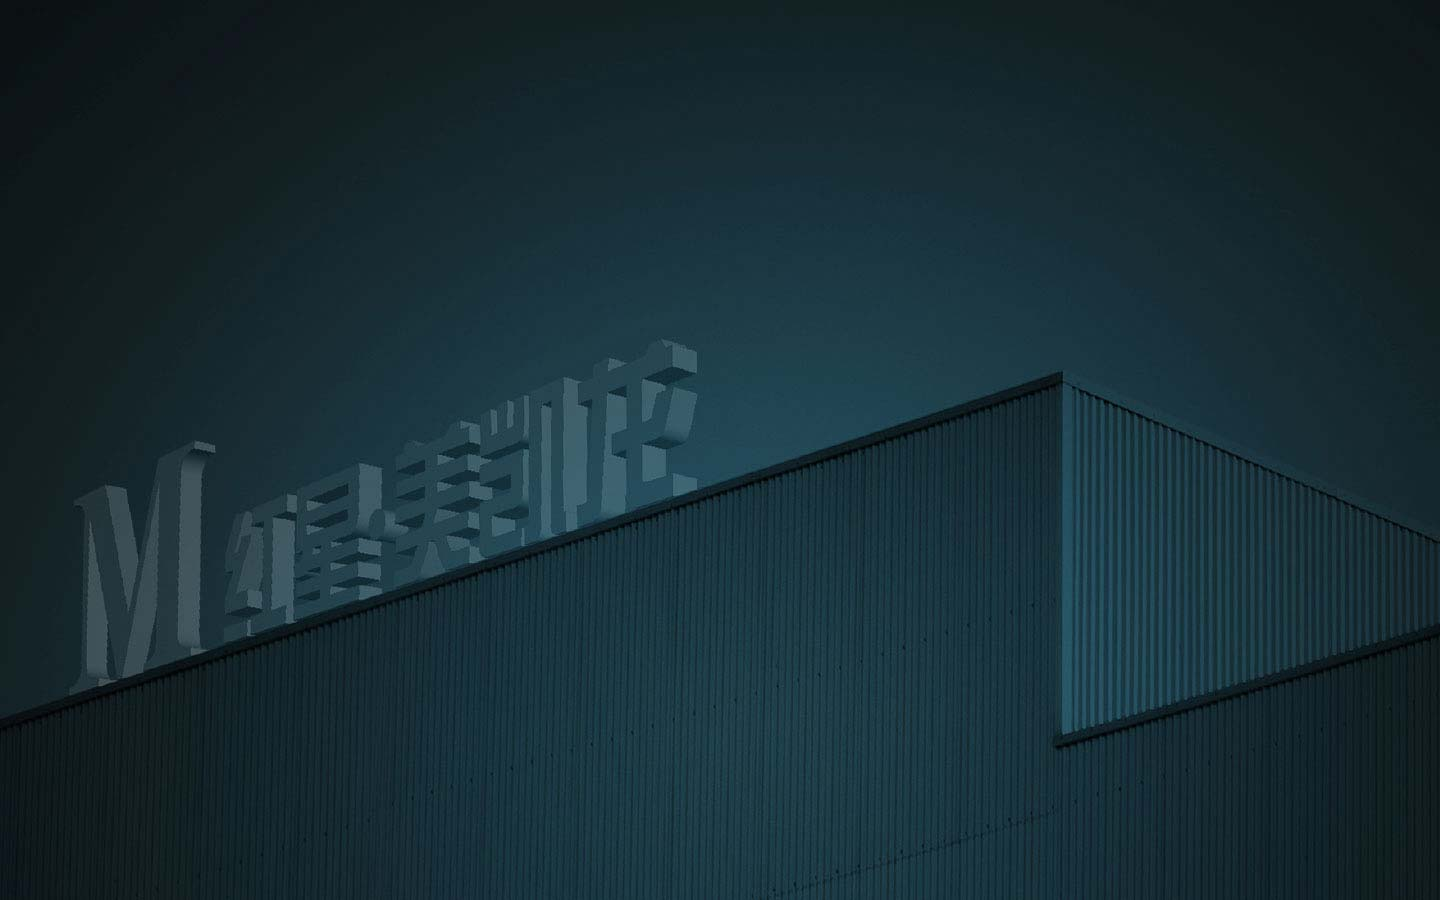
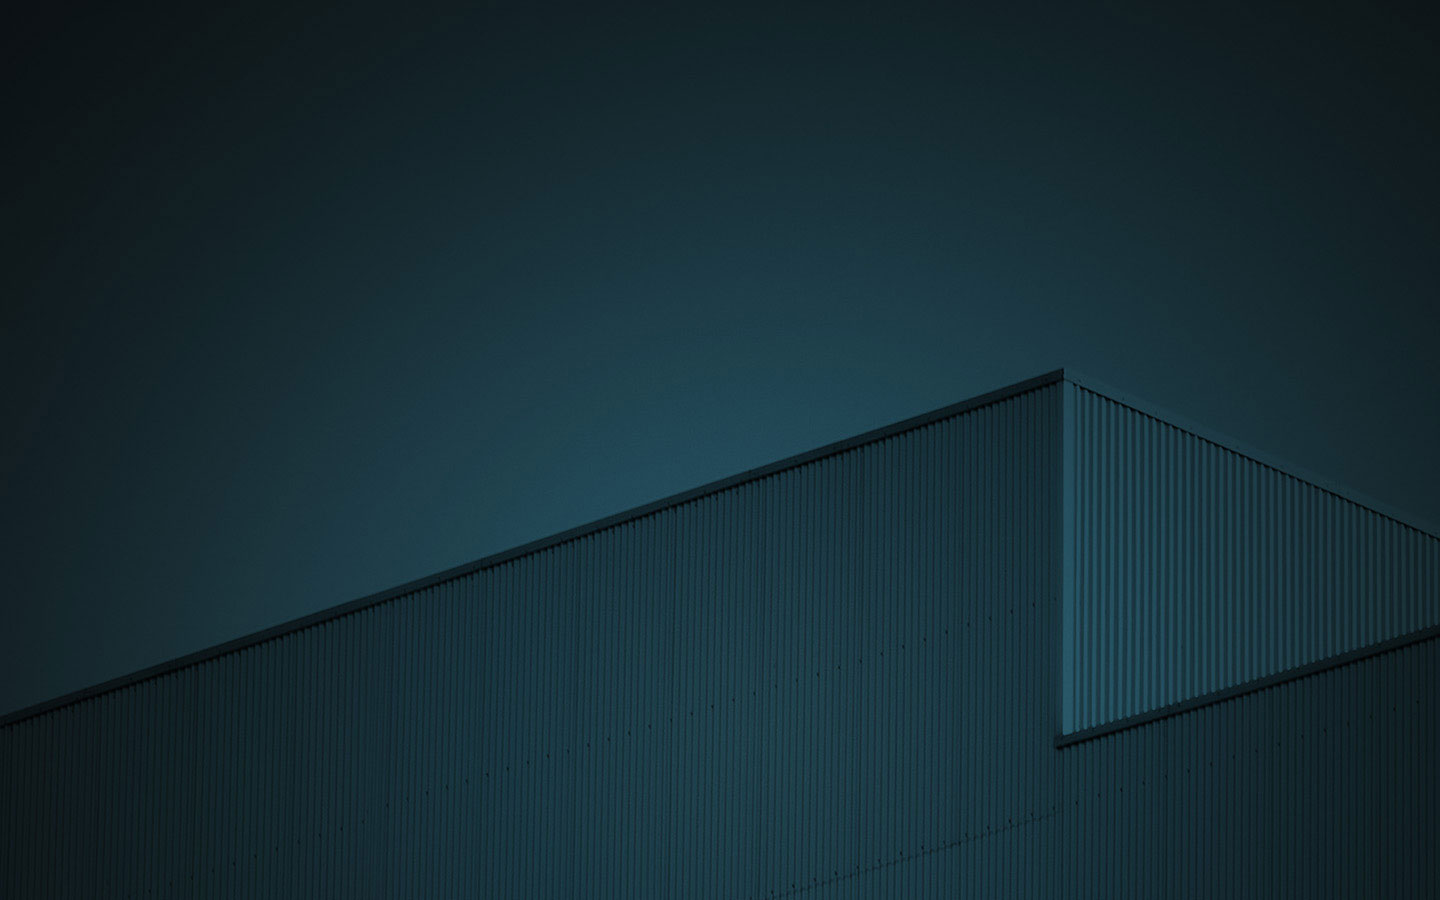
new css

diff --git a/debug/login-new.html b/debug/login-new.html
@@ -106,7 +106,8 @@
 				<div class="swiper-wrapper">
 					<!-- 屏一 -->
 					<div id="screen-1" class="swiper-slide" style="display: block;">
-						<img src="images/login/bg-login-1.jpg" />
+						<img class="swiper-lazy" data-src="images/login/bg-login-1.jpg" />
+						<!-- <img src="images/login/bg-login-1.jpg" /> -->
 						<div class="login-left-icons">
 							<div class="icons-lines"></div>
 
@@ -129,12 +130,14 @@
 							<div data-delay="0.9s" class="icons icons-bottom icons-toggle" style="bottom: 135px; margin-left: 280px; width: 50px; height: 50px;"><img src="images/login/icons-m.png" /></div>
 						</div>
 
-						<div class="login-text-block" style="color: #efd6d0">运筹帷幄 <strong>决胜</strong>云端</div>
+						<!-- <div class="login-text-block" style="color: #efd6d0">运筹帷幄 <strong>决胜</strong>云端</div> -->
+						<div class="login-text-block"><img src="images/login/text-1.png" /></div>
 					</div>
 
 					<!-- 屏二 -->
 					<div id="screen-2" class="swiper-slide" style="display: none;">
-						<img src="images/login/bg-login-2.jpg" />
+						<img class="swiper-lazy" data-src="images/login/bg-login-2.jpg" />
+						<!-- <img src="images/login/bg-login-2.jpg" /> -->
 						<div class="login-left-icons">
 
 							<div class="icons-lines"><img src="images/login/img-lines-2.png" /></div>
@@ -148,12 +151,14 @@
 							<div data-delay="0.4s" class="icons icons-middle icons-toggle" style="left: 603px; margin-bottom: -60px; width: 68px; height: 68px;"><img src="images/login/icons-data-2.png" /></div>
 						</div>
 
-						<div class="login-text-block" style="color: #ffe599">行业平台 <strong>共享</strong>盛世</div>
+						<!-- <div class="login-text-block" style="color: #ffe599">行业平台 <strong>共享</strong>盛世</div> -->
+						<div class="login-text-block"><img src="images/login/text-2.png" /></div>
 					</div>
 
 					<!-- 屏三 -->
 					<div id="screen-3" class="swiper-slide" style="display: none;">
-						<img src="images/login/bg-login-3.jpg" />
+						<img class="swiper-lazy" data-src="images/login/bg-login-3.jpg" />
+						<!-- <img src="images/login/bg-login-3.jpg" /> -->
 						<div class="login-left-icons">
 
 							<div class="icons-lines"></div>
@@ -165,7 +170,8 @@
 							<div data-delay="0.4s" class="icons icons-middle icons-toggle" style="right: 620px; margin-bottom: -95px; width: 85px; height: 85px;"><img src="images/login/icons-base-3.png" /></div>
 							<div data-delay="0.2s" class="icons icons-middle icons-toggle" style="right: 703px; margin-bottom: 59px; width: 38px; height: 38px;"><img src="images/login/icons-goods-3.png" /></div>
 						</div>
-						<div class="login-text-block" style="color: #0fdbd3">立足<strong>红星</strong> 纵横天下</div>
+						<!-- <div class="login-text-block" style="color: #0fdbd3">立足<strong>红星</strong> 纵横天下</div> -->
+						<div class="login-text-block"><img src="images/login/text-3.png" /></div>
 					</div>
 				</div>
 			</div>

diff --git a/debug/css/svm.css b/debug/css/svm.css
@@ -1,9 +1,4 @@
 @charset "utf-8";
-@font-face {font-family: lightFont; src: url("../fonts/PingFang Light.ttf");}  
-@font-face {font-family: normalFont; src: url("../fonts/PingFang Regular.ttf");}  
-
-
-
 *{font-family: "Microsoft Yahei"}
 html,body{height:100%; width:100%; overflow:auto; margin:0; padding:0;background:#fff;}
 textarea{resize: none;}
@@ -692,7 +687,7 @@ body{/*position: absolute; top: 0; right: 0; bottom: 0; left: 0;*/ color: #333;}
 .login-container .swiper-button-next{right: 60px; background: url(../images/icons_arrows.png) no-repeat -50px 0;}
 
 /** ---- 底部文字 ---- **/
-.login-text-block{position: absolute; top: 65%; left: 14%; width: 800px; font-family: normalFont; font-size: 48px; color: #fff; text-align: center; opacity: 0;}
+.login-text-block{position: absolute; top: 65%; left: 14%; padding: 0 170px; width: 800px;/* font-family: normalFont; font-size: 48px; color: #fff; text-align: center;*/ box-sizing: border-box; opacity: 0;}
 @media screen and (max-width: 1500px) { .login-text-block{left: 5%;} }
 .login-text-block strong{font-family: lightFont; font-size: 64px;}
 /* 切换到当前页面时，执行动画 */
@@ -762,5 +757,11 @@ body{/*position: absolute; top: 0; right: 0; bottom: 0; left: 0;*/ color: #333;}
 @-o-keyframes toggleShow{ 0%{opacity: 0;} 7%{opacity: 0;} 90%{opacity: 1;} 100%{opacity: 1;} }
 @keyframes toggleShow{ 0%{opacity: 0;} 7%{opacity: 0;} 90%{opacity: 1;} 100%{opacity: 1;} }
 
-.index-head-logo span{font-size:24px}
-.index-head-logopic{background: url("../images/logos.png")no-repeat 0 17px;height:70px;width:27px;float:left;margin-left: 20px; margin-right: 10px;}
+.index-head-logo{margin-left: 45px; font-size: 20px;}
+.index-head-logo .logo{float: left; margin-top: 20px; width: 22.5px; height: 30px;}
+.index-head-logo .logo img{width: 100%; height: 100%; object-fit: cover; vertical-align: top;}
+.index-head-logo .logo-text{float: left; margin-left: 15px;}
+/*.index-head-logo .divided{margin: 0 20px;}*/
+
+/*.index-head-logo span{font-size:20px}
+.index-head-logopic{background: url("../images/logos.png")no-repeat 0 17px;height:70px;width:27px;float:left;margin-left: 20px; margin-right: 10px;}*/

diff --git a/debug/index.html b/debug/index.html
@@ -18,8 +18,12 @@
 <div class="container-page">
     <div class="pop"></div>
     <nav class="navbar navbar-default navbar-fixed-top">
-        <div class="index-head-logopic"></div>
-        <div class="index-head-logo"><span>龙果</span>&nbsp;&nbsp;|&nbsp;&nbsp;红星美凯龙云商平台</div>
+        <!-- <div class="index-head-logopic"></div> -->
+        <div class="index-head-logo clearFix">
+            <div class="logo"><img src="images/logos.png" /></div>
+            <div class="logo-text">龙果&nbsp;&nbsp;|&nbsp;&nbsp;红星美凯龙云商平台</div>
+            
+        </div>
         <div class="index-head-user">
             <div class="ihu-title btn-index">欢迎您 <span id="login-name"></span><span class="caret"></span></div>
             <div class="ihu-title-block">

diff --git a/debug/js/login-new.js b/debug/js/login-new.js
@@ -5,7 +5,10 @@ $(function() {
     var swiper = new Swiper('.swiper-container', {
         nextButton: '.swiper-button-next',
         prevButton: '.swiper-button-prev',
-        autoplay : 5000,
+        simulateTouch: false,
+        lazyLoading: true,
+        lazyLoadingOnTransitionStart: true,
+        autoplay: 5000,
         loop: true
     });
 
